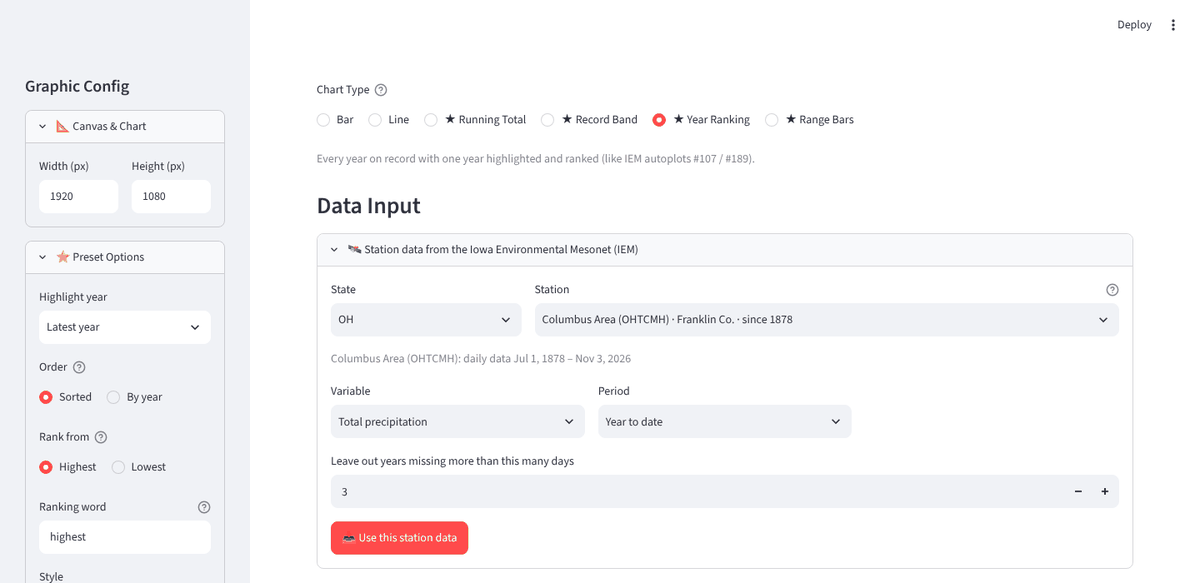
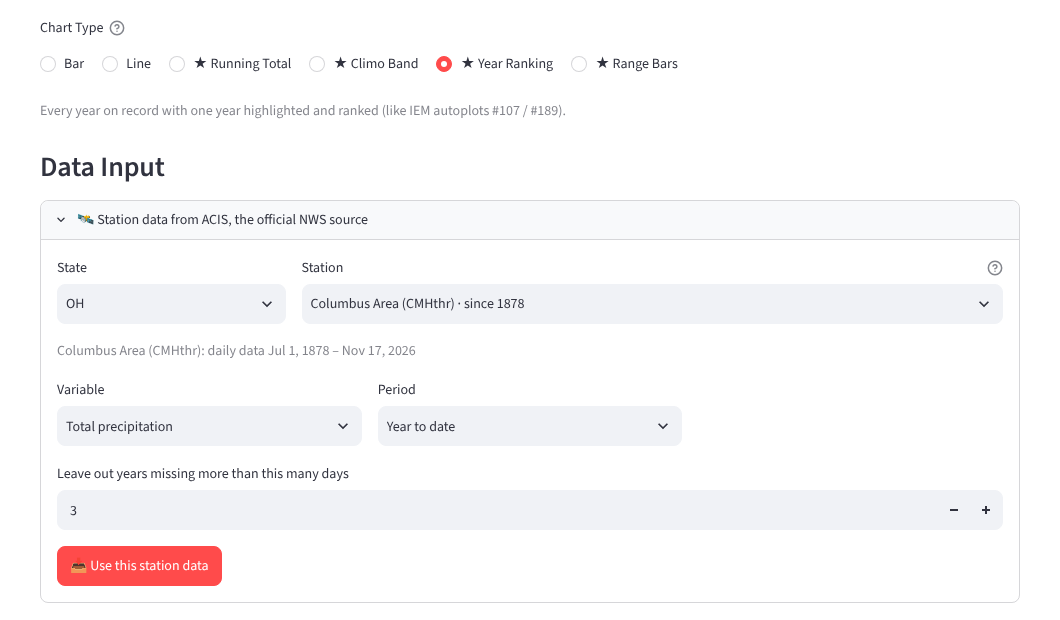
Graph Maker tab: new screenshots and text for the current app
Recaptured from the live app (Columbus Area): station data panel, Year
Ranking, Running Total and Climo Band (renamed from Record Band). Text now
says station data comes from ACIS (official NWS), lists each preset's
options and the normal-period choice. Also: the page test no longer uses a
fixed FFG data time that ages out.

Claude-Session: https://claude.ai/code/session_016pS5E4S9xH4jjAaWseSpug

diff --git a/tests/e2e_public.js b/tests/e2e_public.js
@@ -73,9 +73,10 @@ const [PAGE, SHOTS] = process.argv.slice(2);
   await old.unroute('https://justingehrts.github.io/river-flood-dots/status.json'); await old.route('https://justingehrts.github.io/river-flood-dots/status.json', riverAt(100)); await old.reload();
   await old.waitForFunction(() => /Updated/.test(document.getElementById('fresh-river').textContent));
   // some markets failed to render in the last build: they are named on the FFG tab
+  const GRIB = '5kmffg_' + new Date().toISOString().slice(0, 13).replace(/\D/g, '') + '.g2';      // this hour, so the test never ages out
   const part = await ctx.newPage();
   await part.route('**/ffg/status.json', r => r.fulfill({ status: 200, contentType: 'application/json', body: JSON.stringify({
-    generatedUtc: new Date().toISOString().replace(/\.\d+Z$/, 'Z'), grib: '5kmffg_2026111723.g2', source: 'WPC hourly 5kmffg_2026111723.g2',
+    generatedUtc: new Date().toISOString().replace(/\.\d+Z$/, 'Z'), grib: GRIB, source: 'WPC hourly ' + GRIB,
     failed: [{ file: 'markets/columbus-oh/Custom_FFG_1hr.kmz', error: 'x' }, { file: 'markets/columbus-oh/Custom_FFG_3hr.kmz', error: 'x' }, { file: 'markets/denver-co/Custom_FFG_1hr.kmz', error: 'x' }] }) }));
   await part.goto(PAGE);
   await part.waitForFunction(() => /using older files/.test(document.getElementById('fresh-ffg').textContent));

diff --git a/content/app-graph-maker.md b/content/app-graph-maker.md
@@ -5,7 +5,7 @@
 -->
 ## Graph Maker
 
-Graph Maker builds chart graphics for on-air weather segments and exports them as transparent PNGs you drop into Max. You can type or paste your own numbers, or pull a station's full daily history from the Iowa Environmental Mesonet (IEM) and let the app work out records, normals and rankings for you.
+Graph Maker builds chart graphics for on-air weather segments and exports them as transparent PNGs you drop into Max. You can type or paste your own numbers, or pull a station's full daily history from ACIS, the official NWS source (the data behind xmACIS), and let the app work out records, normals and rankings for you.
 
 ![The Year Ranking chart type with the station data panel for Columbus, Ohio](images/graph-maker-station-data.png)
 *Year Ranking selected: choose a state, station, variable and period, then click Use this station data.*
@@ -14,11 +14,11 @@ Graph Maker builds chart graphics for on-air weather segments and exports them a
 
 - **Your own data.** Type into the table, paste cells straight from Excel or Google Sheets (xmACIS and NOWData work too), or import a CSV or Excel file. The first column is the labels, the next one or two columns are the numbers.
 - **Bar and line charts** with one or two series, a highlighted point, and optional data labels. Bars can run vertically or horizontally, which suits sorted top-10 lists and named rows.
-- **Four climate presets** (marked with a star) that pull a station's daily record from IEM:
-    - **Running Total vs Normal:** season-to-date rain or snow against normal, with the range of all years and the highest and lowest years.
-    - **Record & Normal Band:** daily highs and lows over the warm and cool record bands and the normal range, for a month or a full year, with new records marked.
-    - **Year Ranking:** every year on record, by year or sorted, with one year highlighted and ranked ("5th wettest of 133 years"), an average line and an optional trend line.
-    - **Range Bars:** floating bars from a start to an end, such as the growing season for every year (the last spring and first fall low at or below 32 degrees by default).
+- **Four climate presets** (marked with a star) that pull a station's daily record from ACIS:
+    - **Running Total:** season-to-date rain or snow against normal, with the range of all years and the highest and lowest years. Pick when the season starts (snow seasons usually start Jul 1, water years Oct 1, or a meteorological season) and whether to show the normal for the rest of the season.
+    - **Climo Band:** each day's highs and lows over the record-high band, the normal range and the record-low band, for a full year, a month, a date range or a single year, with new records marked.
+    - **Year Ranking:** every year on record, by year or sorted, with one year highlighted and ranked ("5th wettest of 133 years"), an average line and an optional trend line. Years missing more than a set number of days are left out.
+    - **Range Bars:** floating bars from a start to an end, such as the growing season for every year (the last spring and first fall low at or below 32 degrees by default; use 28 for a hard freeze).
 - **Import from an IEM autoplot.** Paste the address of a plot made at mesonet.agron.iastate.edu/plotting/auto, then pick which of its columns go into the chart. Not every autoplot offers its data.
 - **Number formatting.** Decimal places, prefixes and suffixes such as a degree sign or percent, and thousands separators.
 - **Look.** Size, fonts, colors, gridlines, axis interval and label rotation. Colors come from the Weather Impact 2.0 palette, picked by clicking color chips.
@@ -29,23 +29,24 @@ Graph Maker builds chart graphics for on-air weather segments and exports them a
 
 1. Open the app (button at the top of this tab).
 2. Pick a **Chart Type** across the top.
-3. Get your data in. Either fill the table, paste, or import; or, for a starred preset, choose a **State** and **Station**, then a **Variable** and **Period**, and click **Use this station data**.
+3. Get your data in. Either fill the table, paste, or import; or, for a starred preset, choose a **State** and **Station**, set that preset's options (for Year Ranking a **Variable** and **Period**; Running Total a **Season starts**; Climo Band a **Period**), and click **Use this station data**. "Area" stations are a city's long-term threaded record.
 4. Adjust the look in the sidebar: canvas size, preset options such as the highlighted year, colors, data labels, axes and gridlines. The chart updates as you go.
 5. Download the chart as a transparent PNG and place it in Max.
 6. To keep working later, save the project file and load it next time.
 
 ![Year Ranking for Columbus, Ohio: every year of year-to-date precipitation, with the latest year highlighted and an average line](images/graph-maker-year-ranking.png)
-*Year Ranking: every year's year-to-date precipitation at the Columbus Area station, the latest year in light blue and the average as a white line.*
+*Year Ranking: every year's year-to-date precipitation at the Columbus Area station, the latest year in light blue and the average as a navy line.*
 
 ![Running total of precipitation for the year against the range of all years and the normal](images/graph-maker-running-total.png)
-*Running Total vs Normal: this year (thick light blue) against the range of every year (tan), the highest and lowest years (thin lines) and the normal (dashed).*
+*Running Total: this year (thick light blue) against the range of every year (tan), the highest and lowest years (thin lines) and the normal (dashed).*
 
-![Record and normal bands for daily highs and lows, with new records marked](images/graph-maker-record-band.png)
-*Record & Normal Band: daily highs and lows against the record and normal bands, with new records marked in yellow.*
+![Climo Band for Columbus: daily highs and lows over the record-high, normal and record-low bands, with new records marked](images/graph-maker-climo-band.png)
+*Climo Band: this year's daily highs and lows (blue) over the record-high (warm), normal (green) and record-low (cool) bands, with new records marked in yellow.*
 
 ### Where the numbers come from
 
-- **Normals** default to NCEI's official 1991-2020 normals, the ones the NWS daily climate report uses. You can switch to averages over the station's whole record. If the official normals cannot be fetched, the app says so and offers IEM's own 1991-2020 averages, clearly labeled as not official.
-- **Records** from IEM can differ slightly from NWS official records. When you need the official numbers, paste or import them from xmACIS, NOWData or another source instead. The table accepts T (trace) and M (missing).
+- **Station data** comes from ACIS, the official NWS source, so records, normals and rankings use the same observations as xmACIS and NOWData. Each station shows the dates its daily data covers.
+- **Normals** can be NCEI's official 1991-2020 normals (the default, the ones the NWS daily climate report uses) or averages over the station's full record. IEM's own plot (#113) uses full-record averages, so pick **Full record** if you want to match it.
+- **Your own numbers** can still be pasted or imported from xmACIS, NOWData or any other source. The table accepts T (trace) and M (missing).
 - **Dates as values** (for example the last spring freeze per year, as `16-Oct` or `2025-10-16`) are read as dates, shown as "Oct 16", ranked as latest or earliest, and any trend line is labeled in days per decade.
 - The app runs on Streamlit Community Cloud, which puts idle apps to sleep. If you see a "wake up" message, click it and allow about 30 seconds, and open the app before you need it on air.
